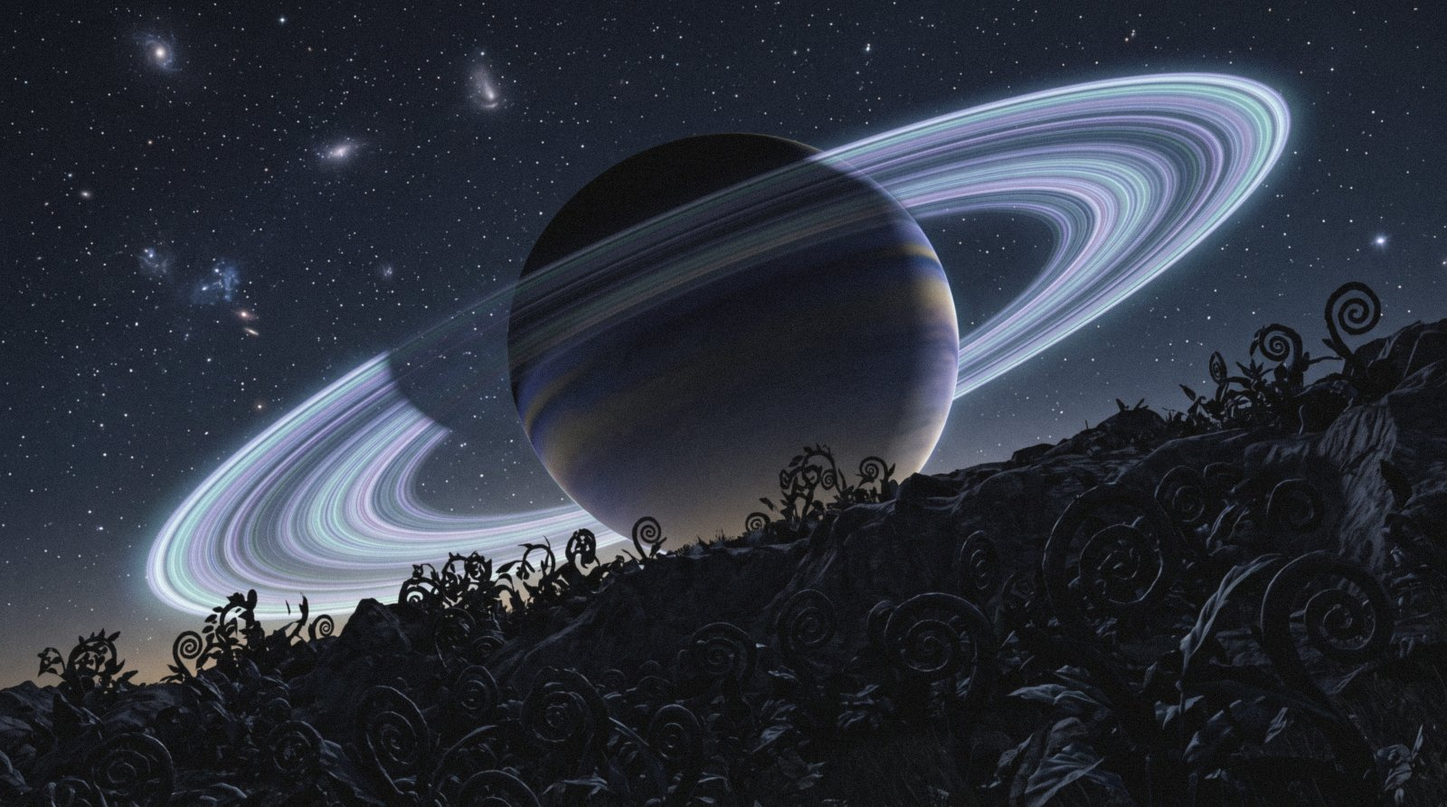
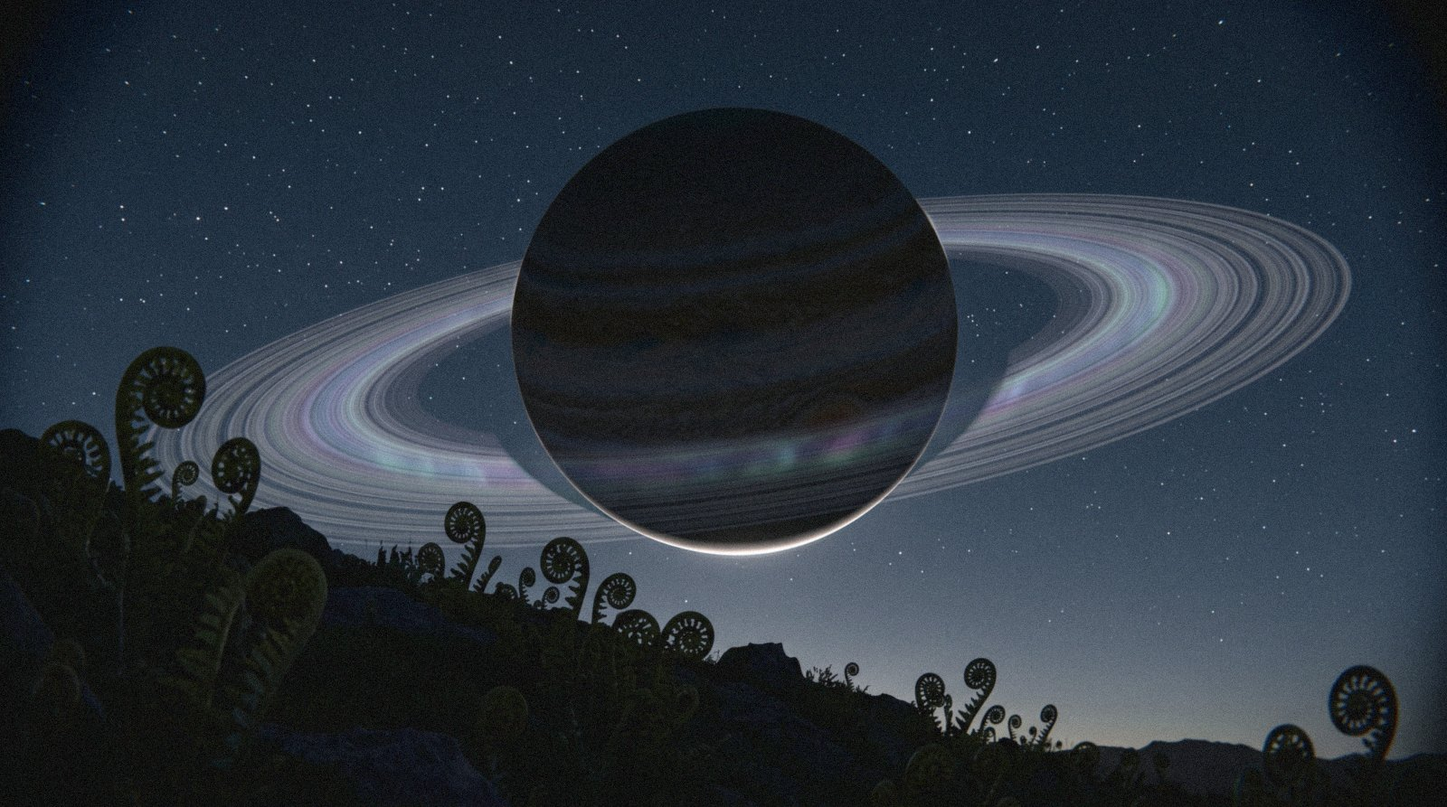
Photorealism batch 4: Ring-Rail, Corryn and the Sentinel re-made as photographs
Three lore images from the photorealism audit's batch 4, re-made as
documentary photographs and filed at finish strength 1, each image_alt
rewritten from the file. The Sentinel gets its first prompt of record in
section 5f. The batch's five ship and station images, and the audit's
batch 5 (knarrheim, quern), are on the century audit's list and left to it.

diff --git a/story-bible/images.md b/story-bible/images.md
@@ -3203,7 +3203,9 @@ nested-sphere diagrams.
 #### Technology (4)
 
 - **`eden-ring-rail.jpg`** — *the ordinary, AI-scheduled way most residents actually move around the ring.*
-  > Documentary photograph taken inside the world by a 29th-century camera, available light, muted colour, documentary realism, nothing dramatic, realistic, still, slightly too empty. A commuter rail platform on the inner surface of a great orbital habitat in the early morning, a plain unmarked matte-grey train standing at the platform with its doors open, a handful of residents boarding without hurry seen from behind, the habitat's green curved landscape rising away and overhead, soft daylight from the habitat's light band. No signs, no destination boards, no route maps, no numbers on the train, no posters, no screens; the platform's edge marked only by a plain painted stripe. Green, pale grey, warm morning. Negative: readable text, lettering, numerals, signage, labels, labelled containers, notices, posters, maps, book titles, maker's plates, nameplates, stencils, branding or written characters of any script anywhere in frame; holograms, projected light, glowing displays, screens, monitors, clocks with displays, consoles, dials, gauges, meters, knobs, toggles, tube screens, exposed cables, tablets, laptops; visible lamp, light fitting, fluorescent tube or bulb; flat studio backdrop, gradient background, glamour lighting, corporate headshot, posed smiling to camera; weapons.
+  > Documentary photograph taken inside the world by a 29th-century camera, available light, 16:9 landscape, early morning: a commuter rail platform on the inner rim of a great spinning ring habitat, seen from the platform looking along the line. A plain matte-grey train with rounded ends stands at the platform with its doors open, unmarked, and a handful of residents in ordinary plain jackets and coats in muted colours board without hurry, seen from behind. Beyond the end of the platform the track runs on through a kept landscape of terraced gardens, small fields and low well-made houses with planted roofs, and the ground and the track rise gently ahead along the line of the ring, curving up and away until the far side of the ring is lost in pale haze high in the sky. Soft, even daylight from a long band of window far overhead. The platform is clean and kept: pale composite paving with honest joints, a plain painted edge stripe, one bench, nothing else. Quiet, ordinary, a working morning. Muted palette, green, pale grey, warm morning light. Photographed, not rendered: atmospheric haze deepening with distance so the rising far landscape goes pale and soft, real cloth with creases on the passengers, high-ISO grain, a moderately wide lens with slight softness toward the corners, a touch under-exposed, muted natural colour, the small imperfections a real photograph keeps. Negative: readable text, lettering, numerals, signage, destination boards, route maps, numbers on the train, posters, labels, maker's plates, branding or written characters of any script anywhere in frame; screens, monitors, holograms, projected light, glowing displays, clocks, ticket machines, CCTV cameras; visible lamp, light fitting, fluorescent tube or bulb; present-day subway or commuter train, graffiti, overhead wires, pantograph, ballast, sleepers, concrete railway viaduct; habitat walls curving up on both sides of the frame like the inside of a tube, a landscape painted on a ceiling; uniforms, hard hats, hi-vis; grime, rust, litter, neglect. Render negatives: 3D render, CGI, octane render, video-game render, science-fiction film set, matte painting, painted backdrop, model railway, miniature, tilt-shift, plastic sheen, airbrushed, over-smooth surfaces, glossy concept art. Landscape orientation.
+  - *(Revised 12 October 2026, photorealism batch 4: the photorealism audit judged the filed frame (R), lower priority: the people are photographic but the habitat's far wall reads as a painted model, cause 3. The scene is kept (the morning platform, the unmarked train, residents boarding seen from behind, the plain stripe). What changes: the landscape now rises ahead along the line of the ring, as a torus's floor does, rather than up both sides of the frame like the inside of a tube, and recedes into haze; the habitat is kept and prosperous per *Places are well kept*; real materials, a lens and grain, and the render, model-railway and tube-wall negatives are added. The Eden sheet in `starship-design.md` is still to come (the Waiting for Fable list), so the ring's size is left to the haze.)*
+  - **Filed 12 October 2026**, round 1 **variation 2**, 1600×893 at finish strength 1: a rounded unmarked train, residents boarding from behind, terraced plots and planted roofs beside the line, the land rising ahead into haze under a long window band. Variation 1 drew a present-day commuter train with grab rails and a tiled platform marking.
   - **Re-prompted 8 October 2026** in the house shape with the standing negative inside the blockquote (the 19 August entries carried none, which is how the lettering got through), and amended for the reason it was held; the previous prompt is in git.
   - **Delivered 8 October 2026**, variation 2 of 2 of the re-prompt (`gemini-3.1-flash-image`, 2K), through `import-image.ps1` at finish strength 1: no signs or boards; the painted stripe is the only mark.
 
@@ -3251,7 +3253,9 @@ nested-sphere diagrams.
   - **Delivered 7 October 2026**, variation 2 of 2 (`gemini-3.1-flash-image`, 2K), through `import-image.ps1` at finish strength 1: the brighter bands; 1 was darker at the foot.
 
 - **`planets/corryn.jpg`** — the ringed gas giant *whose rings pulse and hum in patterns.*
-  > A gas giant with a complex ring system seen from the night side of a nearby habitable world, low above the horizon and dominating the sky, its rings edge-lit and carrying faint patterned colour in blues, purples and greens along their length. In the foreground the dark silhouette of a hillside with spiral-form vegetation against the sky. Quiet, enormous, patterned. Deep blue-black, cold ring colour, black foreground.
+  > Documentary photograph taken inside the world by a 29th-century camera, available light, 16:9 landscape, a long exposure from a tripod on a hillside on the night side of a habitable world: a gas giant with a complex, finely banded ring system hangs huge and low above the horizon, its own night side dark but for a thin lit crescent, its rings edge-lit by the system's sun from below the horizon and carrying faint shifting bands of colour in blue, purple and green along their length, visible to the eye at this phase, soft as an aurora seen on the rings. In the foreground the dark silhouette of a hillside covered in spiral-form plants, their fronds coiled like ferns before they open, black against the sky. Quiet, enormous, patterned. Muted palette, blue-black sky, cold faint ring colour, black foreground. Photographed, not rendered: the stars sharp and small, faint sensor noise and high-ISO grain in the black sky, the planet's cloud bands soft and low in contrast, a moderate lens with slight softness toward the corners, a touch under-exposed, muted natural colour, the small imperfections a real photograph keeps. Negative: readable text, lettering, numerals, insignia, logos or written characters of any script anywhere in frame; a face, an eye, symbols, letters or any pattern in the rings that reads as a signal aimed at the viewer; galaxies, nebulae, a Milky Way arch, several moons, a second planet; neon, glowing plants, bioluminescence, lens flare, god rays; buildings, lights, people. Render negatives: 3D render, CGI, octane render, space art, digital painting, illustration, fantasy art, matte painting, plastic sheen, airbrushed, over-smooth surfaces, glossy concept art. Landscape orientation.
+  - *(Revised 12 October 2026, photorealism batch 4: the photorealism audit judged the filed frame (R), an illustration of stylised plant silhouettes under a ringed giant, cause 2: no camera, lens or grain and no render negatives. The scene is kept, and the patterned-never-addressed rule with it; the frame becomes a long-exposure night photograph, the plants named as coiled fronds, and the galaxies and nebulae the generator added are negated.)*
+  - **Filed 12 October 2026**, round 1 **variation 2**, 1600×893 at finish strength 1: the giant low and dark with a lit edge, faint blue, violet and green in the rings, a hillside of coiled fronds; nothing in the rings reads as addressed. Variation 1 was the same scene with the ring passing behind the disc only. Flaw passed: the disc is flat and dark, the look of an astrophotograph composite rather than a single frame.
   - **Patterned, never addressed.** No face in the rings, nothing that reads as a signal aimed at the viewer.
   - **Delivered 7 October 2026**, variation 1 of 2 (`gemini-3.1-flash-image`, 2K), through `import-image.ps1` at finish strength 1: the ridge reads better; 2 had a second moon that the page does not.
 
@@ -3531,6 +3535,10 @@ The photorealism audit of 11 October (below, under *Open work*) found lore files
 - **`aethelrock.jpg`** — *a cold, high-relief world of granite ridgelines and short growing seasons*, its glens cut by ice that is entirely gone; Clan Dubhghlas holds the southern lowland glens and most of the arable ground. Photorealism batch 2 (audit batch 2): the filed frame is a stock render, black spires and blade ridges round a bright light under the galaxy, no prompt of record, which the century audit had also named worth replacing (its class E). The page's *Settlement Character* sets the frame: technology stays visible, weatherproofed stone longhouses with exposed heating conduits and drone-serviced grazing fences, flocks descended from ark stock, a mosslike native cover on the granite and nothing native eaten. The clan portraits of century batches 3 and 4 (`cormac-dubhghlas`, `idris-bryneth`) settled the look of the hardware, a stone longhouse with plain composite conduits and capped composite fence posts, and the lesson of the growing house, which came back four times as a present-day polytunnel: it is left out of frame. The drone is left out too (*no drones as set-dressing*; nothing in this frame needs one). A wide glen, no person: the world, not a portrait.
   > Documentary photograph taken inside the world by a 29th-century camera, available light, 16:9 landscape, a moderately long lens from a hillside: a wide view down a broad glacier-cut glen on a cold, high granite world in the year 2826, late in a short summer afternoon under a high grey overcast with brighter light low in the west. The valley is a deep U shape carved by ice that is long gone, its floor level and green-brown, its sides steep bare granite in grey and pale pink-grey, scored and rounded, with a thin dark olive mosslike cover clinging to the rock and no trees anywhere; low cloud resting on the ridgelines and the far end of the glen lost in haze. In the middle distance on the valley floor, a clan holding: two long low longhouses of fitted grey stone under dark slate-coloured roofs, each with plain matte composite heating conduits running along the outside of its walls and down into the ground, and beside them a long straight line of capped matte composite fence posts carrying a grazing fence away up the lower slope. A flock of sheep with thick pale fleeces grazes along the fence. A narrow stone-edged track runs from the holding down the glen. Nothing moves but the sheep and the cloud; nobody in frame. The holding is kept and well made, small in the frame, the land enormous around it. Quiet, cold, hard, enduring. Muted palette, granite grey, moss olive, pale fleece, cold sky. Photographed, not rendered: real rock with lichen and fracture lines, real wet grass, atmospheric haze softening the far ridges, high-ISO grain, the slight softness toward the corners of a real lens, a touch under-exposed, muted natural colour, the small imperfections a real photograph keeps. Negative: readable text, lettering, numerals, signage, labels, flags, banners, logos or written characters of any script anywhere in frame; growing house, greenhouse, glasshouse, polytunnel, hoop house, plastic sheeting, cold frame; drone, quadcopter, hovering machine; wind turbine, solar panel field, pylons, power lines, telegraph poles, satellite dish, radio mast; tarmac road, cars, tractors, quad bike, farm machinery, corrugated iron, steel barn, shipping container, caravan; castle, tower house, ruin, thatched cottage, chimney smoke, stone circle, standing stones; spires, blade-like rock towers, floating rocks, waterfalls from the sky, second moon, ringed planet, galaxy, star field, aurora, glowing light between the rocks; people, horses, highland cattle; grime, rust, neglect. Render negatives: 3D render, CGI, octane render, video-game render, fantasy landscape, matte painting, concept art, painterly, plastic sheen, airbrushed, over-smooth surfaces, HDR glow. Landscape orientation.
   - **Filed 12 October 2026**, round 1 **variation 1**, 1600×893 at finish strength 1: the conduits along the longhouse walls and the line of capped posts read at full size, lichened granite in the foreground. Variation 2 was the same glen with the hardware smaller and less legible.
+
+- **`sentinel.jpg`** — *a small, airless world* in the Halyx System, *geologically inert and biologically empty*, whose continuous pulse from *something beneath the surface* was filed as a hazard beacon for centuries until Tissadelle Shepherd heard music in it. Photorealism batch 4 (audit batch 4): the filed frame is a stock particle-burst graphic, no prompt of record, for a page that is a place a camera could stand on. The page withholds what the source is, so the picture does too: nothing comes out of the ground, and the only sign of the finding is a survey receiver set down on the plain with its dish turned to the ground, listening, after the reclassification. Meridian, the neighbouring world, is a *sickly green ammonia-saline ocean world* on its own cover, and stands small in the sky.
+  > Documentary photograph taken inside the world by a 29th-century camera, available light, 16:9 landscape, on the surface of a small airless, lifeless world: a bare plain of grey regolith and low, worn crater rims running to a near and sharply curved horizon under a black sky, hard low sunlight from one side throwing long black shadows, every edge sharp because there is no air. Low in the sky above the horizon, the neighbouring world as a small pale sickly-green disc. In the foreground, alone on the plain, a small sealed survey receiver on three short splayed legs, a plain matte housing with honest seams and a shallow dish turned down toward the ground, as if it were listening to it; around it the shallow prints of boots and the round marks of a lander's pads in the dust. Nothing else: no structure, no ruin, no light, nothing visible coming out of the ground. Still, ordinary, faintly attentive. Muted palette, grey regolith, black sky, one pale green disc. Photographed, not rendered: the hard vacuum light of a real surface photograph, deep black shadows with no fill, fine dust on the receiver's feet, no stars showing in a daylight exposure, high-ISO grain in the black sky, a moderately wide lens with slight softness toward the corners, muted natural colour, the small imperfections a real photograph keeps. Negative: readable text, lettering, numerals, signage, insignia, flags, logos or written characters of any script anywhere in frame; astronauts, people, spacesuits, lunar module, rover, vehicles, buildings, domes, ruins, monolith, alien structure; light rays, beams, energy, glowing cracks, signal waves, particles, aurora, sparks, lens flare; Earth, the Moon as seen from Earth, a ringed planet, stars, nebula, galaxy; grime, rust, neglect. Render negatives: 3D render, CGI, octane render, video-game render, science-fiction film set, matte painting, plastic sheen, airbrushed, over-smooth surfaces, glossy concept art. Landscape orientation.
+  - **Filed 12 October 2026**, round 1 **variation 1**, 1600×893 at finish strength 1: the receiver a sealed box on three legs with its dish under it, turned to the ground; boot prints and pad marks; the green disc low in the sky. Variation 2's dish faced the sky.
 
 ### 6. Images that should not stay — audited 2026-08-10
 
@@ -4763,6 +4771,8 @@ The six heroes below had no prompt of record (cause 4). Each is written fresh fr
 **Photorealism batch 2, filed 12 October 2026** (the audit's batch 2; one round of two variations each, `predatory-entities` and `ilveth` a second round, finished at strength 1, each `image_alt` rewritten from the file; none of the four appears inline elsewhere). Five of the batch's eight are also on the century audit's list (`cross-biosphere-taxonomy`, `cerebraun`, `membrane-shadows`, `new-london-space-habitat` in its batch 6) and are left to it, fixed once wherever they are reached; `aethelrock`, named there only in class (E), stayed here. Picks: `aethelrock` 1 (a new prompt in section 5f, since the file had none: a glacier-cut glen, stone longhouses with plain conduits and capped composite fence posts, sheep; the growing house and the drone left out), `predatory-entities` 1 of round 2 (the chair's seat to a bare wall, in a kept room of cloth, wood and stoneware; round 1 lost the chair facing the wall), `ollune` 2 (back-lit bladders in haze, the tendril fringe the page gives; 1 read as paper lanterns). **Held, the filed image stays:** `ilveth`, whose four variations all read as a sculpted creature render lit from the front, the crown becoming a hooded cowl in round 2. The heading of section 6 (*Images that should not stay*), lost on 9 October, is restored, which also stops five of that audit's character briefs being read as pending lore prompts.
 
 **Photorealism batch 3, 12 October 2026: held, nothing filed** (the Prismere and Prismeri set, all twelve, under the all-or-none rule). Nine world frames passed and the three Prismeri did not, so every filed image stays; the record, the candidates and the choice now open for Dermot are under the set's own heading in section 5a.
+
+**Photorealism batch 4, filed 12 October 2026** (the audit's batch 4; one round of two variations each, finished at strength 1, each `image_alt` rewritten from the file; none appears inline elsewhere). Five of the batch's eight are also on the century audit's list (`embodied-cognition`, `kieme-visible-hand`, `habitat-threshold`, `things-that-are-made`, `ascent-javelins`) and are left to it. Picks: `eden-ring-rail` 2 (the land rising ahead along the ring into haze, where the filed frame's walls curved up both sides like a painted tube), `planets/corryn` 2 (a long-exposure night frame of the ringed giant over coiled fronds), and `sentinel` 1 (a new prompt in section 5f, since the file had none: an airless grey plain with a survey receiver listening to the ground, in place of a stock particle burst). Nothing held. **Batch 5** of the audit (`knarrheim`, `quern`) has nothing left for this audit: `knarrheim` is on the century audit's batch 9 and `quern` is one of its plain-by-canon places (D2), ruled to take a quiet hint last in line, so both are fixed there once.
 
 **Historical means pre-settlement, for the old-look exemption** (Dermot, 11 October 2026, choosing *"Only pre-settlement history"*). The exemption from the hint-of-the-century rule covers the truly old: Earth's past, Saint Aoife's 1216, the Kingdom of the Five Islands' own dress and rooms. A page in the Historical category set between the 23rd and the 28th centuries looks like its own century, a little behind 2826 and never like ours.
 

diff --git a/CHANGELOG.md b/CHANGELOG.md
@@ -6,6 +6,8 @@ The format loosely follows [Keep a Changelog](https://keepachangelog.com/en/1.1.
 
 ## [Unreleased]
 
+- **Photorealism audit, batch 4: three lore images re-made as photographs** (`story-bible/images.md`, 2026-10-12). The Ring-Rail's platform now looks along the line as the land rises ahead into the ring's haze, in place of a habitat whose walls read as a painted model; Corryn's ringed giant is a long-exposure night photograph over a hillside of coiled fronds in place of an illustration; and the Sentinel shows its airless grey plain with a survey receiver listening to the ground, in place of a stock particle-burst graphic (its first prompt of record). Each `image_alt` rewritten from the file. The audit's other five batch-4 images and its batch 5 are on the century audit's list and are left to it.
+
 - **Photorealism audit, batch 3: the Prismere and Prismeri prompts revised, the set held** (`story-bible/images.md`, 2026-10-12). All twelve prompts of the Prismere set now ask for documentary photographs in place of painterly concept art, with the Prismeri body of 3 September unchanged. Nine of the world's frames passed when rolled, but the three Prismeri still read as rendered creatures after two rounds, so under the set's all-or-none rule no image was replaced. What happens to the three Prismeri is open for Dermot.
 
 - **Century audit, batch 7: six images re-made, one carded, Cerebraun held** (`story-bible/images.md`, 2026-10-12). Saint Aoife's shrine niche now sits in a clean, curving ship's corridor in place of a grimy riveted film set; the four body-frames of Cross-Biosphere Taxonomy lie in a bare specimen room, photographed as preserved material, in place of plush-looking specimens on an old school bench; the Membrane Shadow stands featureless against a dawn marsh in a plain observation room, in place of a game-render bridge; the three doors of Made Minds and the AI Safety Archetype stand in a corridor of the century with one latch shape between them; the Generalised Quantum Mechanics apparatus sits in a bare laboratory of the century in place of a 20th-century one; and New London is seen from street level, a wet cobbled street and a bridge over the Thames Canal with the ring rising beyond the roofs, in place of a CGI model of the rings. Environmental Technology Design's stock circuit graphic gives way to an emblem card, and `scripts/make-emblem-card.ps1` now breaks a title too wide for the card after its colon and shrinks it to fit. Each page's `image_alt` was rewritten from its new file. The Cerebraun page keeps its image: every attempt drew an Earth octopus.

diff --git a/src/lore/eden-ring-rail.md b/src/lore/eden-ring-rail.md
@@ -6,7 +6,7 @@ category: "Technology"
 tags: [eden, ring-rail, orbital-habitats-compact, transit, infrastructure, eden-warden, technology]
 description: "Eden Space Habitat's circumferential commuter line — the ordinary, AI-scheduled way most residents actually move around the ring, and the one everyday system that quietly touches both of Eden's separate chains of authority."
 image: "eden-ring-rail.jpg"
-image_alt: "A rail platform on the inner surface of a great orbital habitat in early morning, a plain unmarked grey train with its doors open, a few residents boarding seen from behind, the habitat's green landscape of fields and houses curving up and over, a single painted stripe along the platform edge"
+image_alt: "A clean rail platform on the inner rim of a ring habitat in morning light, a plain rounded grey train with its doors open and a few residents in plain coats boarding seen from behind, terraced gardens and low planted-roof houses beside the line, the land and the track rising away into haze under a long band of windows"
 plain: "The Ring-Rail is the train line that runs all the way around Eden Space Habitat's spinning ring, the way a subway runs through a city. Most residents ride it every day. It is scheduled by the Eden Warden, an AI, who often notices something is wrong on Eden just from the trains running oddly. One short stretch of track, near the fold-route monitoring stations, needs a special clearance that an ordinary ticket does not give."
 ---
 

diff --git a/src/lore/planets/corryn.md b/src/lore/planets/corryn.md
@@ -5,7 +5,7 @@ category: "Locations"
 tags: [corryn, corryn-prime, carillon, spiralites, first-contact, frontier-transformation-protocols, boundary, halvern-combine, imperium, locations]
 description: "A system whose ringed gas giant hums in patterns, whose indigenous people speak in electromagnetic pulse — and whose human colony, a remnant of the Old Imperium, holds a valid charter from a government dead two centuries."
 image: "planets/corryn.jpg"
-image_alt: "A ringed blue-grey planet rising huge over a dark ridge of coiled alien plants at night, its rings tilted and pale against stars"
+image_alt: "A dark ringed gas giant hanging huge and low in a night sky, a thin lit edge on its disc and faint bands of blue, violet and green along its rings, above a black hillside of coiled fern-like plants"
 plain: "Corryn is a star system about 700 light years from Earth. Its most striking feature is a gas giant, the Carillon, whose rings give out a low hum in complex patterns. The habitable world nearby, Corryn Prime, is home to the Spiralites, a people who speak using electromagnetic pulses. A human mining and farming colony there is producing interference that is wrecking the Spiralites' ability to communicate and to reproduce. The colony was licensed by the Imperium, which fell in 2609, so it holds a permission nobody living can withdraw and nobody has stopped it."
 ---
 

diff --git a/src/lore/planets/sentinel.md b/src/lore/planets/sentinel.md
@@ -9,7 +9,7 @@ galaxy: "Milky Way"
 system: "Halyx System"
 locationType: "Planet"
 image: "sentinel.jpg"
-image_alt: "A fan of fine green and teal light rays radiating upward and outward from a single point at the bottom of the frame, brightest and most crowded at the base, thinning into scattered points of light against a dark teal field."
+image_alt: "A bare grey cratered plain on an airless world under a black sky, hard sunlight and black shadows, a small pale green world low above the horizon, and alone in the foreground a small sealed survey box on three splayed legs with a shallow dish under it turned to the ground, boot prints and lander pad marks in the dust around it"
 ---
 
 Every automated survey classifier has a bin for signals it cannot parse: unmodulated, non-repeating, no known protocol match. File under noise. The Sentinel's pulse sat in that bin for centuries before anyone thought to just listen to it.
